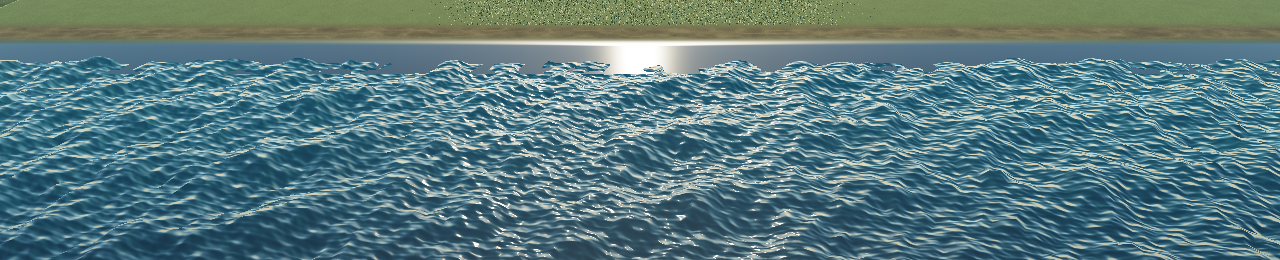
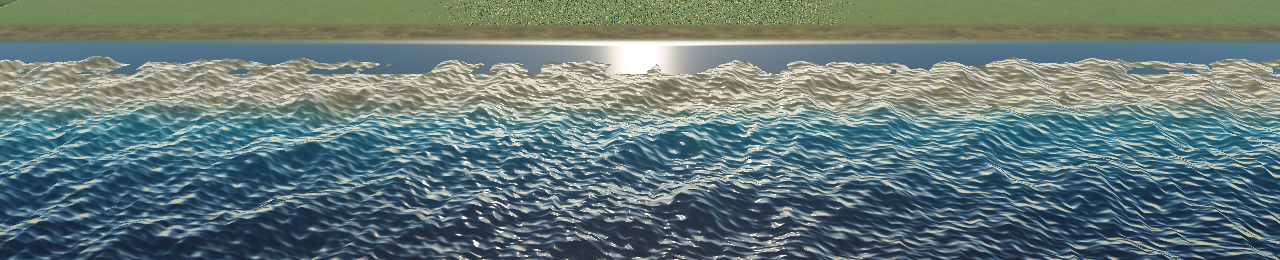
Blend photoreal sea shoreline
Claude-Session: https://claude.ai/code/session_013rdQNr3rDGxmLVNKi2ZEZf

diff --git a/packages/photoreal-renderer/src/battle/seaLayer.ts b/packages/photoreal-renderer/src/battle/seaLayer.ts
@@ -11,7 +11,7 @@ import {
 } from 'three/tsl';
 import { attribute } from 'three/tsl';
 import { bakeGerstnerWaves } from '../../../game-renderer/src/water/gerstnerField';
-import { FIELD_WATER_RAMP, type WaterShoreRamp } from '../../../game-renderer/src/water/waterShoreRamp';
+import { BATTLE_OCEAN_RAMP, FIELD_WATER_RAMP, type WaterShoreRamp } from '../../../game-renderer/src/water/waterShoreRamp';
 import type { BattleOceanPlaneSpec } from '../../../game-renderer/src/battle/horizonPass';
 import {
   fnoiseN, linearAlbedo, rgbNode, saturateN, smoothstepN,
@@ -24,6 +24,7 @@ import {
 const WATER_SHALLOW_ALBEDO: [number, number, number] = [0.22, 0.58, 0.60];
 const WATER_DEEP_ALBEDO: [number, number, number] = [0.025, 0.095, 0.22];
 const WATER_FOAM_ALBEDO: [number, number, number] = [0.92, 0.93, 0.94];
+const WATER_SAND_TURBIDITY_ALBEDO: [number, number, number] = [0.66, 0.58, 0.40];
 // Calm water is glossy: the sun track is standard-material GGX specular from
 // the live environment sun; foam stays matte.
 const WATER_ROUGHNESS = 0.075;
@@ -43,6 +44,8 @@ const SEA_FOAM_SLOPE_END = 0.58;
 const SEA_FOAM_SPECKLE_START = 0.56;
 const SEA_FOAM_SPECKLE_END = 0.78;
 const SEA_FOAM_SCALE = 0.74;
+const SEA_SAND_TURBIDITY_DEPTH_START = 0.04;
+const SEA_SAND_TURBIDITY_DEPTH_END = 0.26;
 
 interface WaterSampleNodes {
   height: FloatNode;
@@ -60,6 +63,7 @@ export interface SeaSurfaceStats {
   shallowAlbedo: [number, number, number];
   deepAlbedo: [number, number, number];
   foamAlbedo: [number, number, number];
+  sandTurbidityAlbedo: [number, number, number];
   roughness: number;
   foamRoughness: number;
   normalDetail: {
@@ -76,6 +80,13 @@ export interface SeaSurfaceStats {
     speckleStart: number;
     speckleEnd: number;
     scale: number;
+  };
+  shore: {
+    ramp: WaterShoreRamp;
+    sandTurbidityDepthStart: number;
+    sandTurbidityDepthEnd: number;
+    heightfieldDatum: true;
+    farExtent: number;
   };
 }
 
@@ -153,6 +164,7 @@ export function seaSurfaceStats(): SeaSurfaceStats {
     shallowAlbedo: WATER_SHALLOW_ALBEDO,
     deepAlbedo: WATER_DEEP_ALBEDO,
     foamAlbedo: WATER_FOAM_ALBEDO,
+    sandTurbidityAlbedo: WATER_SAND_TURBIDITY_ALBEDO,
     roughness: WATER_ROUGHNESS,
     foamRoughness: WATER_FOAM_ROUGHNESS,
     normalDetail: {
@@ -169,6 +181,13 @@ export function seaSurfaceStats(): SeaSurfaceStats {
       speckleStart: SEA_FOAM_SPECKLE_START,
       speckleEnd: SEA_FOAM_SPECKLE_END,
       scale: SEA_FOAM_SCALE,
+    },
+    shore: {
+      ramp: BATTLE_OCEAN_RAMP,
+      sandTurbidityDepthStart: SEA_SAND_TURBIDITY_DEPTH_START,
+      sandTurbidityDepthEnd: SEA_SAND_TURBIDITY_DEPTH_END,
+      heightfieldDatum: true,
+      farExtent: 7200,
     },
   };
 }
@@ -251,9 +270,13 @@ export interface WaterSurfaceNodes {
 export function waterSurfaceNodes(
   depth01: FloatNode,
   foamRaw: FloatNode,
+  shoreTurbidity: FloatNode | null = null,
 ): WaterSurfaceNodes {
   const foam = saturateN(foamRaw).toVar();
-  let albedo = mix(rgbNode(WATER_SHALLOW_ALBEDO), rgbNode(WATER_DEEP_ALBEDO), depth01);
+  const shallow = shoreTurbidity
+    ? mix(rgbNode(WATER_SAND_TURBIDITY_ALBEDO), rgbNode(WATER_SHALLOW_ALBEDO), shoreTurbidity)
+    : rgbNode(WATER_SHALLOW_ALBEDO);
+  let albedo = mix(shallow, rgbNode(WATER_DEEP_ALBEDO), depth01);
   albedo = mix(albedo, rgbNode(WATER_FOAM_ALBEDO), foam);
   albedo = linearAlbedo(albedo);
   const roughness = mix(float(WATER_ROUGHNESS), float(WATER_FOAM_ROUGHNESS), foam);
@@ -316,7 +339,8 @@ export function createOceanPlaneMesh(
   // beach → deeper blue offshore; the visible sea stays calm, whitecaps build
   // only with real swell agitation.
   const shoreDist = fragXY.x.sub(spec.shoreX).abs().toVar();
-  const depth01 = mix(float(0.30), float(0.80), smoothstepN(0.0, 500.0, shoreDist));
+  const depth01 = shoreDepthNode(BATTLE_OCEAN_RAMP, shoreDist);
+  const shoreTurbidity = smoothstepN(SEA_SAND_TURBIDITY_DEPTH_START, SEA_SAND_TURBIDITY_DEPTH_END, depth01);
   const agitation = smoothstepN(0.0, 3200.0, shoreDist).toVar();
   const viewDist = length(fragXY.sub(vec2(frame.focus))).toVar();
   const distanceFade = smoothstepN(SEA_NORMAL_DETAIL_FADE_START, SEA_NORMAL_DETAIL_FADE_END, viewDist).toVar();
@@ -327,7 +351,7 @@ export function createOceanPlaneMesh(
   const normalStrength = mix(float(0.30), float(1.0), agitation).mul(detail);
   const surfaceNormal = normalize(mix(vec3(0.0, 0.0, 1.0), s.normal, normalStrength));
   material.normalNode = transformNormalToView(surfaceNormal);
-  const surface = waterSurfaceNodes(depth01, s.foam.mul(agitation));
+  const surface = waterSurfaceNodes(depth01, s.foam.mul(agitation), shoreTurbidity);
   material.colorNode = vec4(surface.albedo, 1.0);
   material.roughnessNode = surface.roughness;
 

diff --git a/web/tests/photorealSea.test.ts b/web/tests/photorealSea.test.ts
@@ -4,6 +4,7 @@ import {
   createSeaDisplacementSource,
   seaDisplacementSourceFromParam,
 } from '../../packages/photoreal-renderer/src/battle/seaLayer.ts';
+import { BATTLE_OCEAN_RAMP } from '../../packages/game-renderer/src/water/waterShoreRamp.ts';
 
 test('photoreal sea: route params select the displacement source', () => {
   assert.equal(seaDisplacementSourceFromParam(null), 'gerstner-tsl');
@@ -30,6 +31,7 @@ test('photoreal sea: Gerstner is the default active source', () => {
       shallowAlbedo: [0.22, 0.58, 0.60],
       deepAlbedo: [0.025, 0.095, 0.22],
       foamAlbedo: [0.92, 0.93, 0.94],
+      sandTurbidityAlbedo: [0.66, 0.58, 0.40],
       roughness: 0.075,
       foamRoughness: 0.78,
       normalDetail: {
@@ -46,6 +48,13 @@ test('photoreal sea: Gerstner is the default active source', () => {
         speckleStart: 0.56,
         speckleEnd: 0.78,
         scale: 0.74,
+      },
+      shore: {
+        ramp: BATTLE_OCEAN_RAMP,
+        sandTurbidityDepthStart: 0.04,
+        sandTurbidityDepthEnd: 0.26,
+        heightfieldDatum: true,
+        farExtent: 7200,
       },
     },
   });

diff --git a/packages/game-renderer/src/battle/horizonPass.ts b/packages/game-renderer/src/battle/horizonPass.ts
@@ -31,9 +31,9 @@ const HAZE: [number, number, number] = [0.80, 0.81, 0.83];
 
 // The ocean edge runs from the shoreline out past the horizon; the plane laps 24 m
 // into the field so it meets the on-field water with no gap.
-const OCEAN_FAR = 4000;
+const OCEAN_FAR = 7200;
 const OCEAN_LAP = 24;
-const OCEAN_RES = 360;
+const OCEAN_RES = 440;
 
 const HORIZON_WGSL = (env: BattleEnvironment) => `
 ${WORLD_CAMERA_WGSL}

diff --git a/specs/3d-perspective-renderer/README.md b/specs/3d-perspective-renderer/README.md
@@ -13,7 +13,7 @@ photoreal register the `aesthetics` skill targets.
 ## Next Agent Prompt
 
 **Status (updated 2026-07-02): ON MAIN through slice `11`; worktree `codex-12bcde`
-has `12b` + `12c` complete.** The camera spine
+has `12b`–`12d` complete.** The camera spine
 `01`–`05b` is COMPLETE (one projector `projectWorld`, one reverse-Z
 `depth32float` convention, legacy 2.5D deleted and grep-proofed). The `06`
 substrate verdict is **three.js WebGPU + TSL** for the photoreal layer (camera
@@ -27,12 +27,14 @@ blob-shadow decals are deleted). Every later look slice lands in the real game,
 on `main`, as an individually gated increment — not on a long-lived branch. The
 standing gates ("Photoreal ladder invariants" below) apply on every slice.
 
-**Exact next pickup point: `12d` — photoreal sea shore blending**
+**Exact next pickup point: `12e` — photoreal sea glint discipline**
 (`slices/12-photoreal-sea.md`): `12a` picked Gerstner TSL and rejected the
 spectral/IFFT spike; `12b` removed that implementation, kept the one
 `SeaDisplacementSource` socket, and put the surface on SkyModel-LUT PBR with
 distance-faded normal detail; `12c` made whitecaps crest/slope/agitation driven
-and added the `sea-mid` crop. Continue with shore blending and glint discipline.
+and added the `sea-mid` crop; `12d` blended the terrain-height shoreline through
+tan sand → pale turquoise → deep blue and pushed the sea rim into the 10b aerial
+owner. Continue with glint discipline.
 `12`/`13`/`14` are parallelizable in
 worktrees from here — coordinate with David's battle-map-reference session
 (file reservations below). Critique items owned by name: tan field albedo +
@@ -61,7 +63,8 @@ map-edge seams + mountain shelf + crag-base shadow gap (`13`), far-crowd smear
 | `10c` preset moods | overcast litmus PASSES (lum 191/sat 6.2 vs ref 176/7.6); `SUN_TOWARD_VIEW` π/2→π + golden elev 0.35; ~70 re-blesses across 10b+c; 3.14/3.18 ms | `04c5dcb4` |
 | `11` CSM sun shadows | `shadowRig` seam — **three CSMShadowNode addon** (3×2048 from the live camera3d projection) + `'single'` SwiftShader tier asserted by name; blob-shadow decals DELETED; ground receives-not-casts (recorded); ZERO existing re-blesses + 6 new baselines; **5.86/6.39 ms (crowd shadow cost +2.7/+3.2)** | `f469a697` |
 | `12b` photoreal sea PBR | spectral/IFFT spike REMOVED; Gerstner TSL is the only tier; sea reflects the SkyModel LUT via standard PBR + GGX sun glint; normal detail fades 720→2300 m (0.92→0.18); SwiftShader `photoreal-sea/sea-horizon` green | `d1531a82` |
-| `12c` photoreal sea foam | whitecaps gated by Gerstner crest height + slope agitation + speckle; `sea-mid` crop foamFraction 0.0838, not blanket; hardware baseline + SwiftShader green | pending |
+| `12c` photoreal sea foam | whitecaps gated by Gerstner crest height + slope agitation + speckle; `sea-mid` crop foamFraction 0.0838, not blanket; hardware baseline + SwiftShader green | `b4ced5e3` |
+| `12d` photoreal sea shore | terrain-height shore ramp blends tan sand → turquoise → deep blue; sea rim extended to 7200 m and left to 10b aerial haze; `shore-line` SwiftShader green | pending |
 
 ### Active blockers / coordination warnings
 
@@ -97,7 +100,7 @@ map-edge seams + mountain shelf + crag-base shadow gap (`13`), far-crowd smear
 - [x] `11` — CSM sun shadows via `shadowRig` (addon verdict); blob-shadow
       stand-ins deleted (`slices/11-csm-shadows.md`)
 - [ ] `12` — photoreal sea: Gerstner-vs-IFFT spike → surface/foam/shore/glint;
-      `seaLayer` owner (`slices/12-photoreal-sea.md`) **← 12b+c done; NEXT 12d**
+      `seaLayer` owner (`slices/12-photoreal-sea.md`) **← 12b-d done; NEXT 12e**
 - [ ] `13` — photoreal terrain + foliage, RE-SCOPED to substrate seams
       (`slices/13-photoreal-terrain-foliage.md`; the LOOK is battle-map-reference's)
 - [ ] `14` — photoreal soldiers: materials, 30k LOD/impostors + union-frustum
@@ -108,7 +111,7 @@ map-edge seams + mountain shelf + crag-base shadow gap (`13`), far-crowd smear
       entities, territory/labels (`slices/16-campaign-photoreal.md`)
 - [ ] `17` — legacy deletion sweep + close-spec (`slices/17-legacy-sweep-close.md`)
 
-(`12`/`13`/`14` are parallelizable in worktrees after `11`; `12d` continues in `seaLayer`.)
+(`12`/`13`/`14` are parallelizable in worktrees after `11`; `12e` continues in `seaLayer`.)
 
 **Instruction to the next agent:** keep this section COMPACT — update the status
 paragraph, pickup point, ledger (one line per newly-done slice), and checklist;

diff --git a/specs/3d-perspective-renderer/slices/12-photoreal-sea.md b/specs/3d-perspective-renderer/slices/12-photoreal-sea.md
@@ -90,6 +90,38 @@ visible from seaward bearings → `12d` extent/shore work.
   the terrain heightfield, plus the seaward far-edge extent/haze fix through the
   10b aerial owner. Water-gate ledger still open.
 
+## 12d STATUS (2026-07-02): DONE — shore blending + far-rim owner
+
+- **Implementation:** `seaLayer.ts` now keys the open-sea material off
+  `BATTLE_OCEAN_RAMP` instead of the old parity ramp. The shoreline starts with
+  sand turbidity, passes through pale Aegean turquoise, then reaches the existing
+  deep-water blue offshore. The ramp is keyed to the terrain-heightfield shoreline
+  datum (`abs(worldX - shoreX)`) and published in `surface.shore` stats.
+- **Constants chosen:** sand turbidity albedo `[0.66, 0.58, 0.40]`; turbidity
+  fades over depth `0.04→0.26`; ocean depth ramp remains
+  `{ depthNear: 12, depthFar: 300, hazeNear: 520, hazeFar: 1900 }`. The open-sea
+  horizon plane extends to `7200` m at `440` segments, with no inline haze added:
+  the far rim is intentionally handed to the slice-10b aerial-perspective owner.
+- **Scene:** `web/scenes/battle/photoreal-sea.mjs` now includes
+  `photoreal-sea/shore-line`, cropped across the land/shore/near-sea band. The
+  crop asserts tan sand, turquoise shallows, and deep blue are all present.
+- **Evidence:** `bun run --cwd web typecheck`; `bun run --cwd web test:unit`
+  (68/68); hardware look re-bless
+  `UPDATE_SHOTS=1 VERIFY_URL=http://localhost:5178 VERIFY_GPU=1
+  VERIFY_GPU_ADAPTER=hardware VERIFY_BROWSER_CHANNEL=chrome node scene.mjs
+  photoreal-sea` → ALL CHECKS PASSED; SwiftShader
+  `VERIFY_URL=http://localhost:5178 VERIFY_GPU=1 node scene.mjs photoreal-sea`
+  → ALL CHECKS PASSED. Baselines re-blessed/added:
+  `web/shots/battle/photoreal-sea/sea-horizon.png`,
+  `web/shots/battle/photoreal-sea/sea-mid.png`, and
+  `web/shots/battle/photoreal-sea/shore-line.png`. Hardware `shore-line`
+  metrics: sandFraction `0.4282`, turquoiseFraction `0.3188`,
+  deepBlueFraction `0.2717`, blueFraction `0.3526`; SwiftShader drift on
+  `shore-line` was 1797 px (`0.7799%`). Seating tripwire
+  `battle-terrain-elevation` stayed green with `match=true` on all three fixtures.
+- **Next:** `12e` disciplines the sun glint sparkle size/threshold and closes the
+  named water-gate retirement ledger plus `/renderer/water-bakeoff` fate.
+
 ## Contract unlocked
 
 The sea sells the setting (aesthetics rule 4): a photoreal Aegean sea at the true
